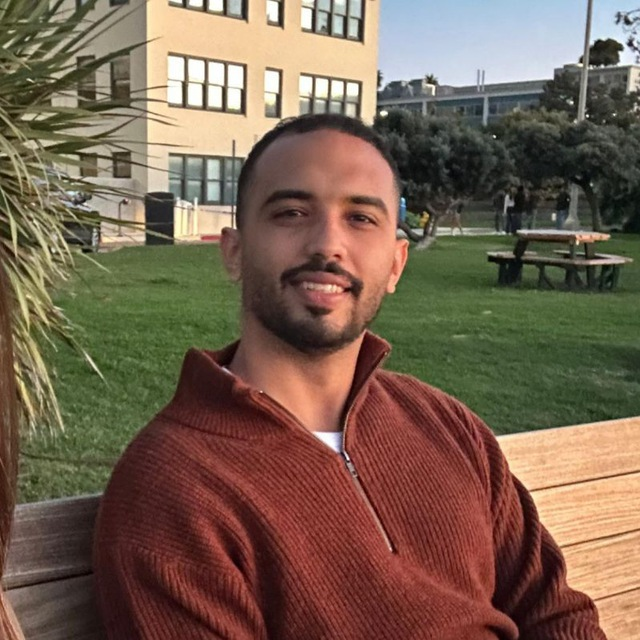
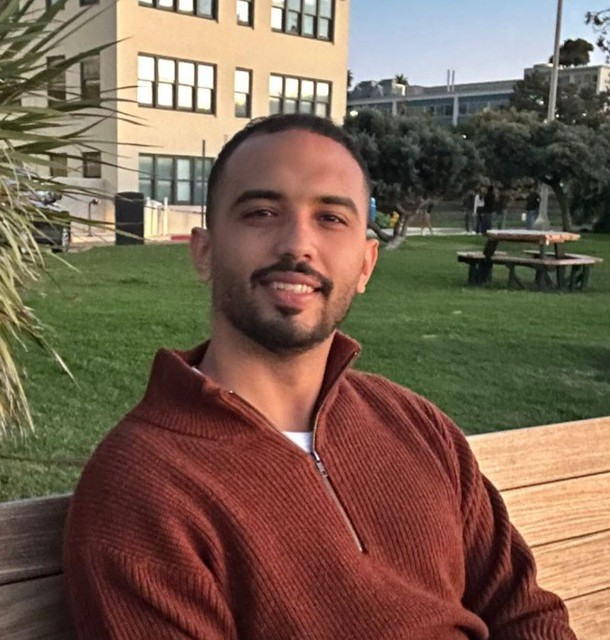
edits

diff --git a/data/content.ts b/data/content.ts
@@ -6,7 +6,7 @@ export const PROFILE: Profile = {
   institution: "Mohamed bin Zayed University of Artificial Intelligence (MBZUAI)",
   email: "yahia.shaaban@mbzuai.ac.ae",
   bio: "I am a researcher specializing in Time Series, Large Language Models, and Reasoning. My work bridges the gap between foundation models and complex, structured modalities like sensors and oil-well drilling data. Ranked 1st in NeurIPS 2024 Watermark Removal Challenge.",
-  image: "https://i.imgur.com/7J5y9Xh.jpeg", // Placeholder for the user uploaded image
+  image: "/profile_image.jpg", // Placeholder for the user uploaded image
   quotes: [
     "\"The purpose of computation is insight, not numbers.\" — Richard Hamming",
     "\"We can only see a short distance ahead, but we can see plenty there that needs to be done.\" — Alan Turing",
